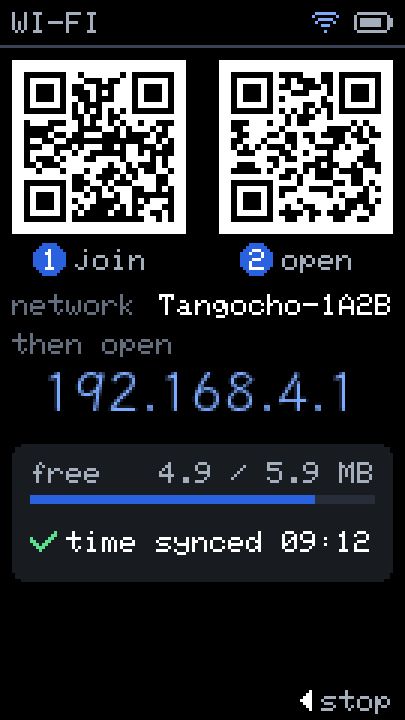
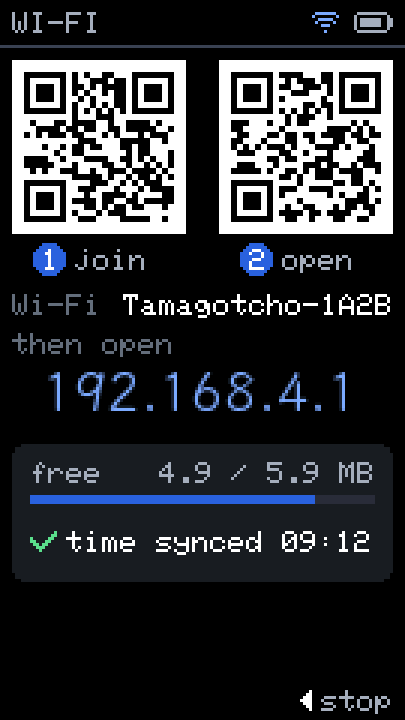
ux-mockups: Tamagotcho in the mockups' titles and access point
render.py's SSID (Tamagotcho-1A2B) and titles follow the rename; the Wi-Fi
"after" mockup labels the network "Wi-Fi", as "network" no longer fits beside
the longer SSID on 135 px. Regenerated docs/ux: only overview.png and the
four wifi-*.png change (the renderer is deterministic).

diff --git a/tools/ux-mockups/render.py b/tools/ux-mockups/render.py
@@ -1,5 +1,5 @@
 #!/usr/bin/env python3
-"""Tangochō UX mockups: "before" and "after" PNGs of the device screens.
+"""Tamagotcho UX mockups: "before" and "after" PNGs of the device screens.
 
 Run it inside the pack builder's environment (Pillow, fontTools and the glyph /
 GLCD / KanjiVG code come from there):
@@ -696,7 +696,7 @@ class Before:
         c.fill(self.K_BLACK)
         self.header("WI-FI")
         self.back_hint()
-        lines = ["Tangocho-1A2B", "http://192.168.4.1",
+        lines = ["Tamagotcho-1A2B", "http://192.168.4.1",
                  "Open the URL on your phone and upload a .tgc", "free 5047 / 6080 KB",
                  "uploaded: 0", "ready"]
         top = 18
@@ -1331,7 +1331,7 @@ class After:
         c.fill(T.BG)
         self.header("WI-FI", wifi=True)
         y = HEADER_H + 4
-        size = self.qr("WIFI:T:nopass;S:Tangocho-1A2B;;", GUT, y)
+        size = self.qr("WIFI:T:nopass;S:Tamagotcho-1A2B;;", GUT, y)
         self.qr("http://192.168.4.1", W - GUT - size, y)
         for i, (n, label) in enumerate((("1", "join"), ("2", "open"))):
             x = GUT if i == 0 else W - GUT - size
@@ -1341,8 +1341,8 @@ class After:
         y += size + 20
         # The SSID is picked from the phone's list (recognised: small is fine);
         # the URL may have to be typed (large).
-        c.glcd_text("network", GUT, y, T.TEXT_FAINT)
-        c.glcd_text("Tangocho-1A2B", W - GUT, y, T.TEXT, 1, "tr")
+        c.glcd_text("Wi-Fi", GUT, y, T.TEXT_FAINT)  # "network" no longer fits beside the SSID
+        c.glcd_text("Tamagotcho-1A2B", W - GUT, y, T.TEXT, 1, "tr")
         c.glcd_text("then open", GUT, y + 13, T.TEXT_FAINT)
         c.label("192.168.4.1", GUT, y + 23, W - 2 * GUT, 20, T.ACCENT_HI, T.BG, TEXT, "c")
         y += 50
@@ -1494,7 +1494,7 @@ def contact_sheet(pairs, font_path: Path, path: Path) -> Path:
     sheet_h = 70 + sum(max(c[6] for c in r) + pad for r in rows) + pad
     sheet = Image.new("RGB", (sheet_w, sheet_h), (18, 20, 26))
     d = ImageDraw.Draw(sheet)
-    d.text((pad, 20), "Tangochō UX refresh — before / after (proposal, see docs/ux-refresh.md)",
+    d.text((pad, 20), "Tamagotcho UX refresh — before / after (proposal, see docs/ux-refresh.md)",
            font=title_f, fill=(235, 235, 240))
     y = 70
     for r in rows:
